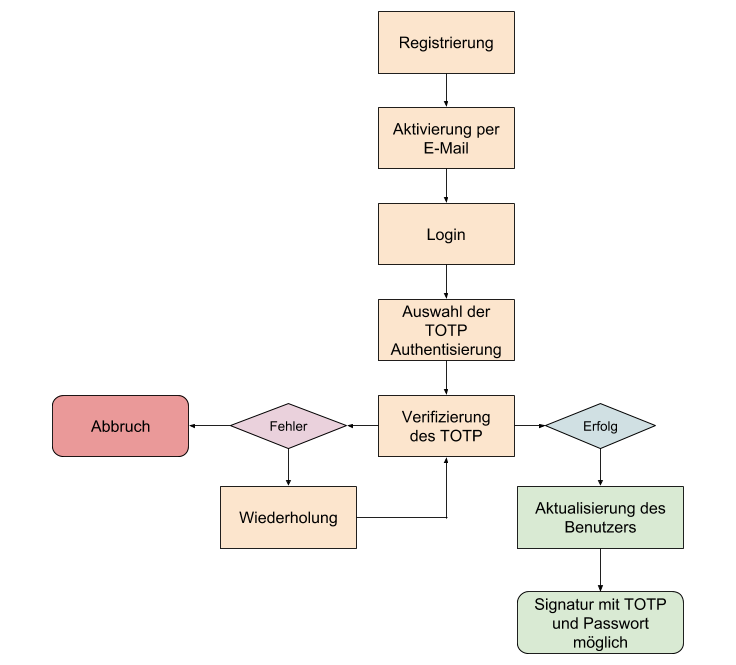
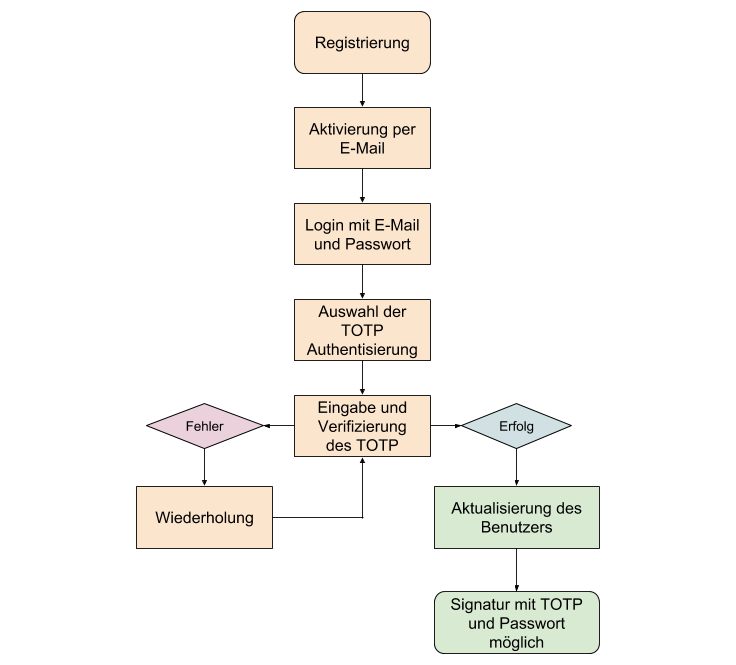
Aktualisierung der Abläufe und Ergänzung der U2F Implementierung

diff --git a/Bachelorarbeit_Philipp_Bzdok.tex b/Bachelorarbeit_Philipp_Bzdok.tex
@@ -910,7 +910,7 @@ Die Sicherheit der \textit{U2F} Authentifizierung basiert auf einem Public-Key K
 \subsection{Schwächen}
 Schwächen weißt das \textit{U2F} Verfahren inbesondere bei unsachgemäßer Handhabung des Sicherheitsschlüssels oder falscher Implementierung auf. Es steht in der Verantwortung der Benutzers das \textit{U2F} Gerät sicher zu verwahren und vor unbefugtem Zugriff zu schützen da, am Beispiel des Yubikeys, meist nur eine einfache Interaktion mit dem Gerät reicht um eine Authentifizerung durchzuführen. Abhilfe dagegen schaffen Implementierungen wie \textit{Myris}\footnote{https://www.eyelock.com/index.php/access-control/myris}, welche zusätzliche biometrische Merkmale wie die Iris erfordern. Deshalb ist eine Authentifizierung mit \textit{U2F} immer in Verbindung mit einem weiteren Faktor zu empfehlen. Ein weiteres Risko ist der Verlust der Hardware, wodurch der Benutzer den Zugriff auf sein Benutzerkonto verliehrt falls er keine Backup-Authentifizierung eingerichtet oder eine zweites \textit{U2F} Gerät zuvor registriert hat. Neben den benutzerspezifischen Risikofaktoren existieren ebenfalls technische Anforderungen um eine sichere Authentifizierung zu ermöglichen. So ist die Verwendung von verschlüsselten Übertragungskanälen zwangsweise erforderlich. Die \textit{FIDO Alliance} weist in der \textit{Universal 2nd Factor (U2F) Overview} \cite{u2fSpec} darauf hin das eine Schwachstelle die Interaktion des Gerätes mit Malware ist, solange der Zugriff über Anwendungen geschieht welche im \textit{User Space} agieren. Das \textit{U2F} Gerät kann einen ``guten'' Client nicht von einem ``bösen'' unterscheiden, sodass es prinzipiell möglich ist eine Registrierung bei einem bösartigen Serviceprovider (\texttt{origin}) durchzuführen. Verhindert werden soll dies durch direkten Zugriff auf das Gerät durch das Betriebssystem, jedoch existieren solche APIs gegenwärtig noch nicht.
 \subsection{Implementierung}
-In diesem Kapitel möchte ich eine prototypische \textit{U2F} Authentifizierung auf Basis einen \textit{Ruby on Rails} Webanwendung darstellen. Die Webanwendung ermöglicht es dem Benutzer sich zu registrieren und mit Hilfe der Zwei-Faktor Authentifizierung eine Nachricht zu signieren. Die Implementierung basiert auf der Anwendung aus Kapitel \ref{sec:TOTP} und erweitert diese. Aus diesem Grund ergeben sich einige Parallelen in gemeinsamen Komponenten wie dem \textit{User} und \textit{Message Model}, der Aktivierung des Benutzerkontos über eine E-Mail und der Aktivierung der Multi-Faktor Authentifizierung. Die Aktivierung der \textit{U2F} Authentifizierung setzt das angeschlossene Gerät, die Benutzerinteraktion mit dem Gerät und einen erfolgreichen Registrierungsprozess im Backend voraus. Abbildung \ref{fig:Authwebapp_u2f_init} zeigt schematisch den \textit{U2F} Registrierungsprozess in der Webanwendung analog zu Abbildung \ref{fig:totp-init}. Die Authentifizierung mit \textit{U2F} erfolgt ebenfalls ähnlich wie mit TOTP, jedoch wird der Benutzer ausschließlich zur Interaktion mit dem Gerät aufgefordert und muss keine Eingabe tätigen (siehe Abb. \ref{fig:Authwebapp_u2f_auth}). Die Aufforderung an den Benutzer wird ihm visuell im Browser mitgeteilt, wobei der aktive \textit{Yubikey} anfängt zu leuchten um seine Bereitschaft zu signalisieren. Dieser halbautomatisierte Ablauf wird durch die \textit{U2F} Javascript API ermöglicht, welche bei einer erfolgreichen Authentifizerung automatisch die Signaturerstellung anstößt. Wie im Kapitel \ref{sec:TOTPImpl} werde ich die Implementierung innerhalb der Komponenten des MVC-Frameworks beschreiben um eine gute Gegenüberstellung zu ermöglichen. Für die Authentifizierung mit \textit{U2F} ist ein kompatibler Browser und ein kompatibles Gerät notwendig. Der Browser welcher zum testen der Anwednung benutzt wurde ist \textit{Google Chrome 72.0} und das \textit{U2F} Gerät ist der \textit{Yubikey 5} von \textit{Yubico}.
+In diesem Kapitel möchte ich eine prototypische \textit{U2F} Authentifizierung auf Basis einen \textit{Ruby on Rails} Webanwendung darstellen. Die Webanwendung ermöglicht es dem Benutzer sich zu registrieren und mit Hilfe der Zwei-Faktor Authentifizierung eine Nachricht zu signieren. Die Implementierung basiert auf der Anwendung aus Kapitel \ref{sec:TOTP} und erweitert diese. Aus diesem Grund ergeben sich einige Parallelen in gemeinsamen Komponenten wie dem \textit{User} und \textit{Message Model}, der Aktivierung des Benutzerkontos über eine E-Mail und der Aktivierung der Multi-Faktor Authentifizierung. Die Aktivierung der \textit{U2F} Authentifizierung setzt das angeschlossene Gerät, die Benutzerinteraktion mit dem Gerät und einen erfolgreichen Registrierungsprozess im Backend voraus. Abbildung \ref{fig:Authwebapp_u2f_init} zeigt schematisch den \textit{U2F} Registrierungsprozess in der Webanwendung analog zu Abbildung \ref{fig:totp-init}. Die Authentifizierung mit \textit{U2F} erfolgt ebenfalls ähnlich wie mit TOTP, jedoch wird der Benutzer ausschließlich zur Interaktion mit dem Gerät aufgefordert und muss keine Eingabe tätigen (siehe Abb. \ref{fig:Authwebapp_u2f_auth}). Die Aufforderung an den Benutzer wird ihm visuell im Browser mitgeteilt, wobei der aktive \textit{Yubikey} anfängt zu blinken um seine Bereitschaft zu signalisieren. Dieser halbautomatisierte Ablauf wird durch die \textit{U2F} Javascript API\footnote{https://github.com/fido-alliance/google-u2f-ref-code/blob/master/u2f-gae-demo/war/js/u2f-api.js} ermöglicht. Meine Implementierung nutzt die Javascript API um, nach einer erfolgreichen Authentifizerung durch \texttt{u2f.sign}, automatisch die Signaturerstellung anzustoßen (Details dazu im View Kapitel). Wie im Kapitel \ref{sec:TOTPImpl} werde ich die Implementierung innerhalb der Komponenten des MVC-Frameworks beschreiben um eine gute Gegenüberstellung zu ermöglichen. Für die Authentifizierung mit \textit{U2F} ist ein kompatibler Browser und ein kompatibles Gerät notwendig. Der Browser welcher zum testen der Anwednung benutzt wurde ist \textit{Google Chrome 72.0} und das \textit{U2F} Gerät ist der \textit{Yubikey 5} von \textit{Yubico}.
 \begin{figure}[htbp]
     \centering
         \includegraphics[width=\textwidth]{Abbildungen/Ablauf_U2F_Initialisierung}
